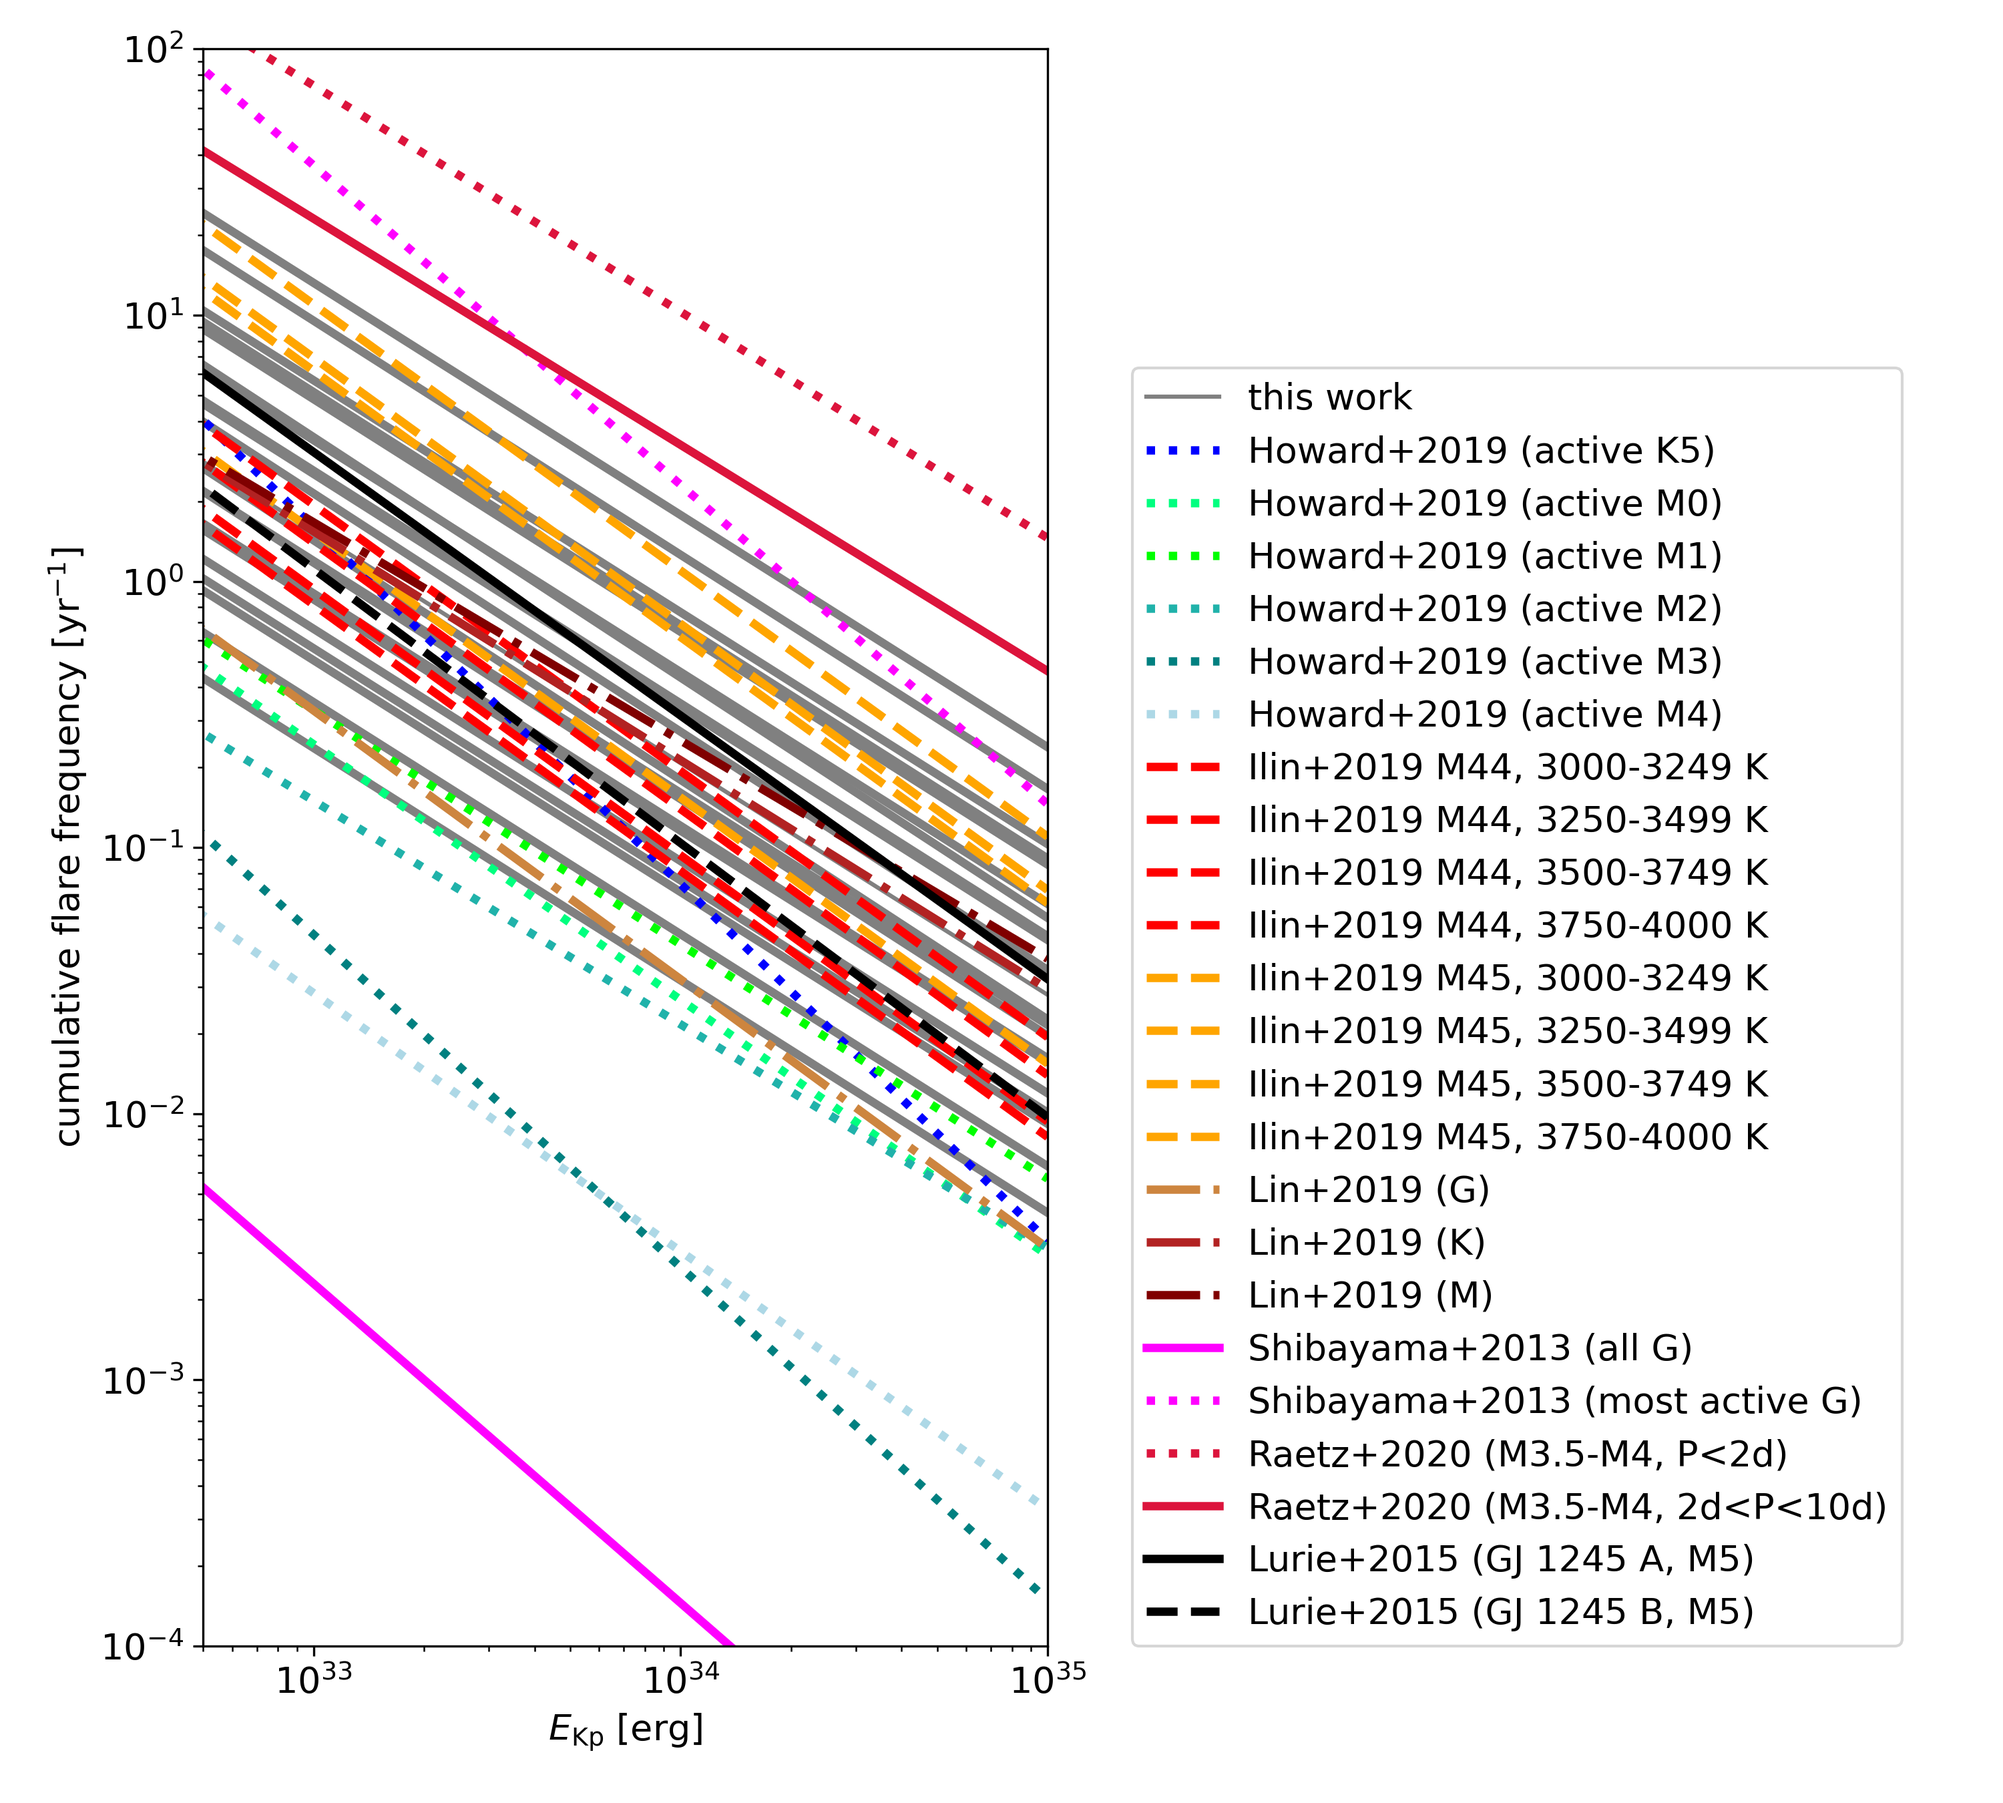
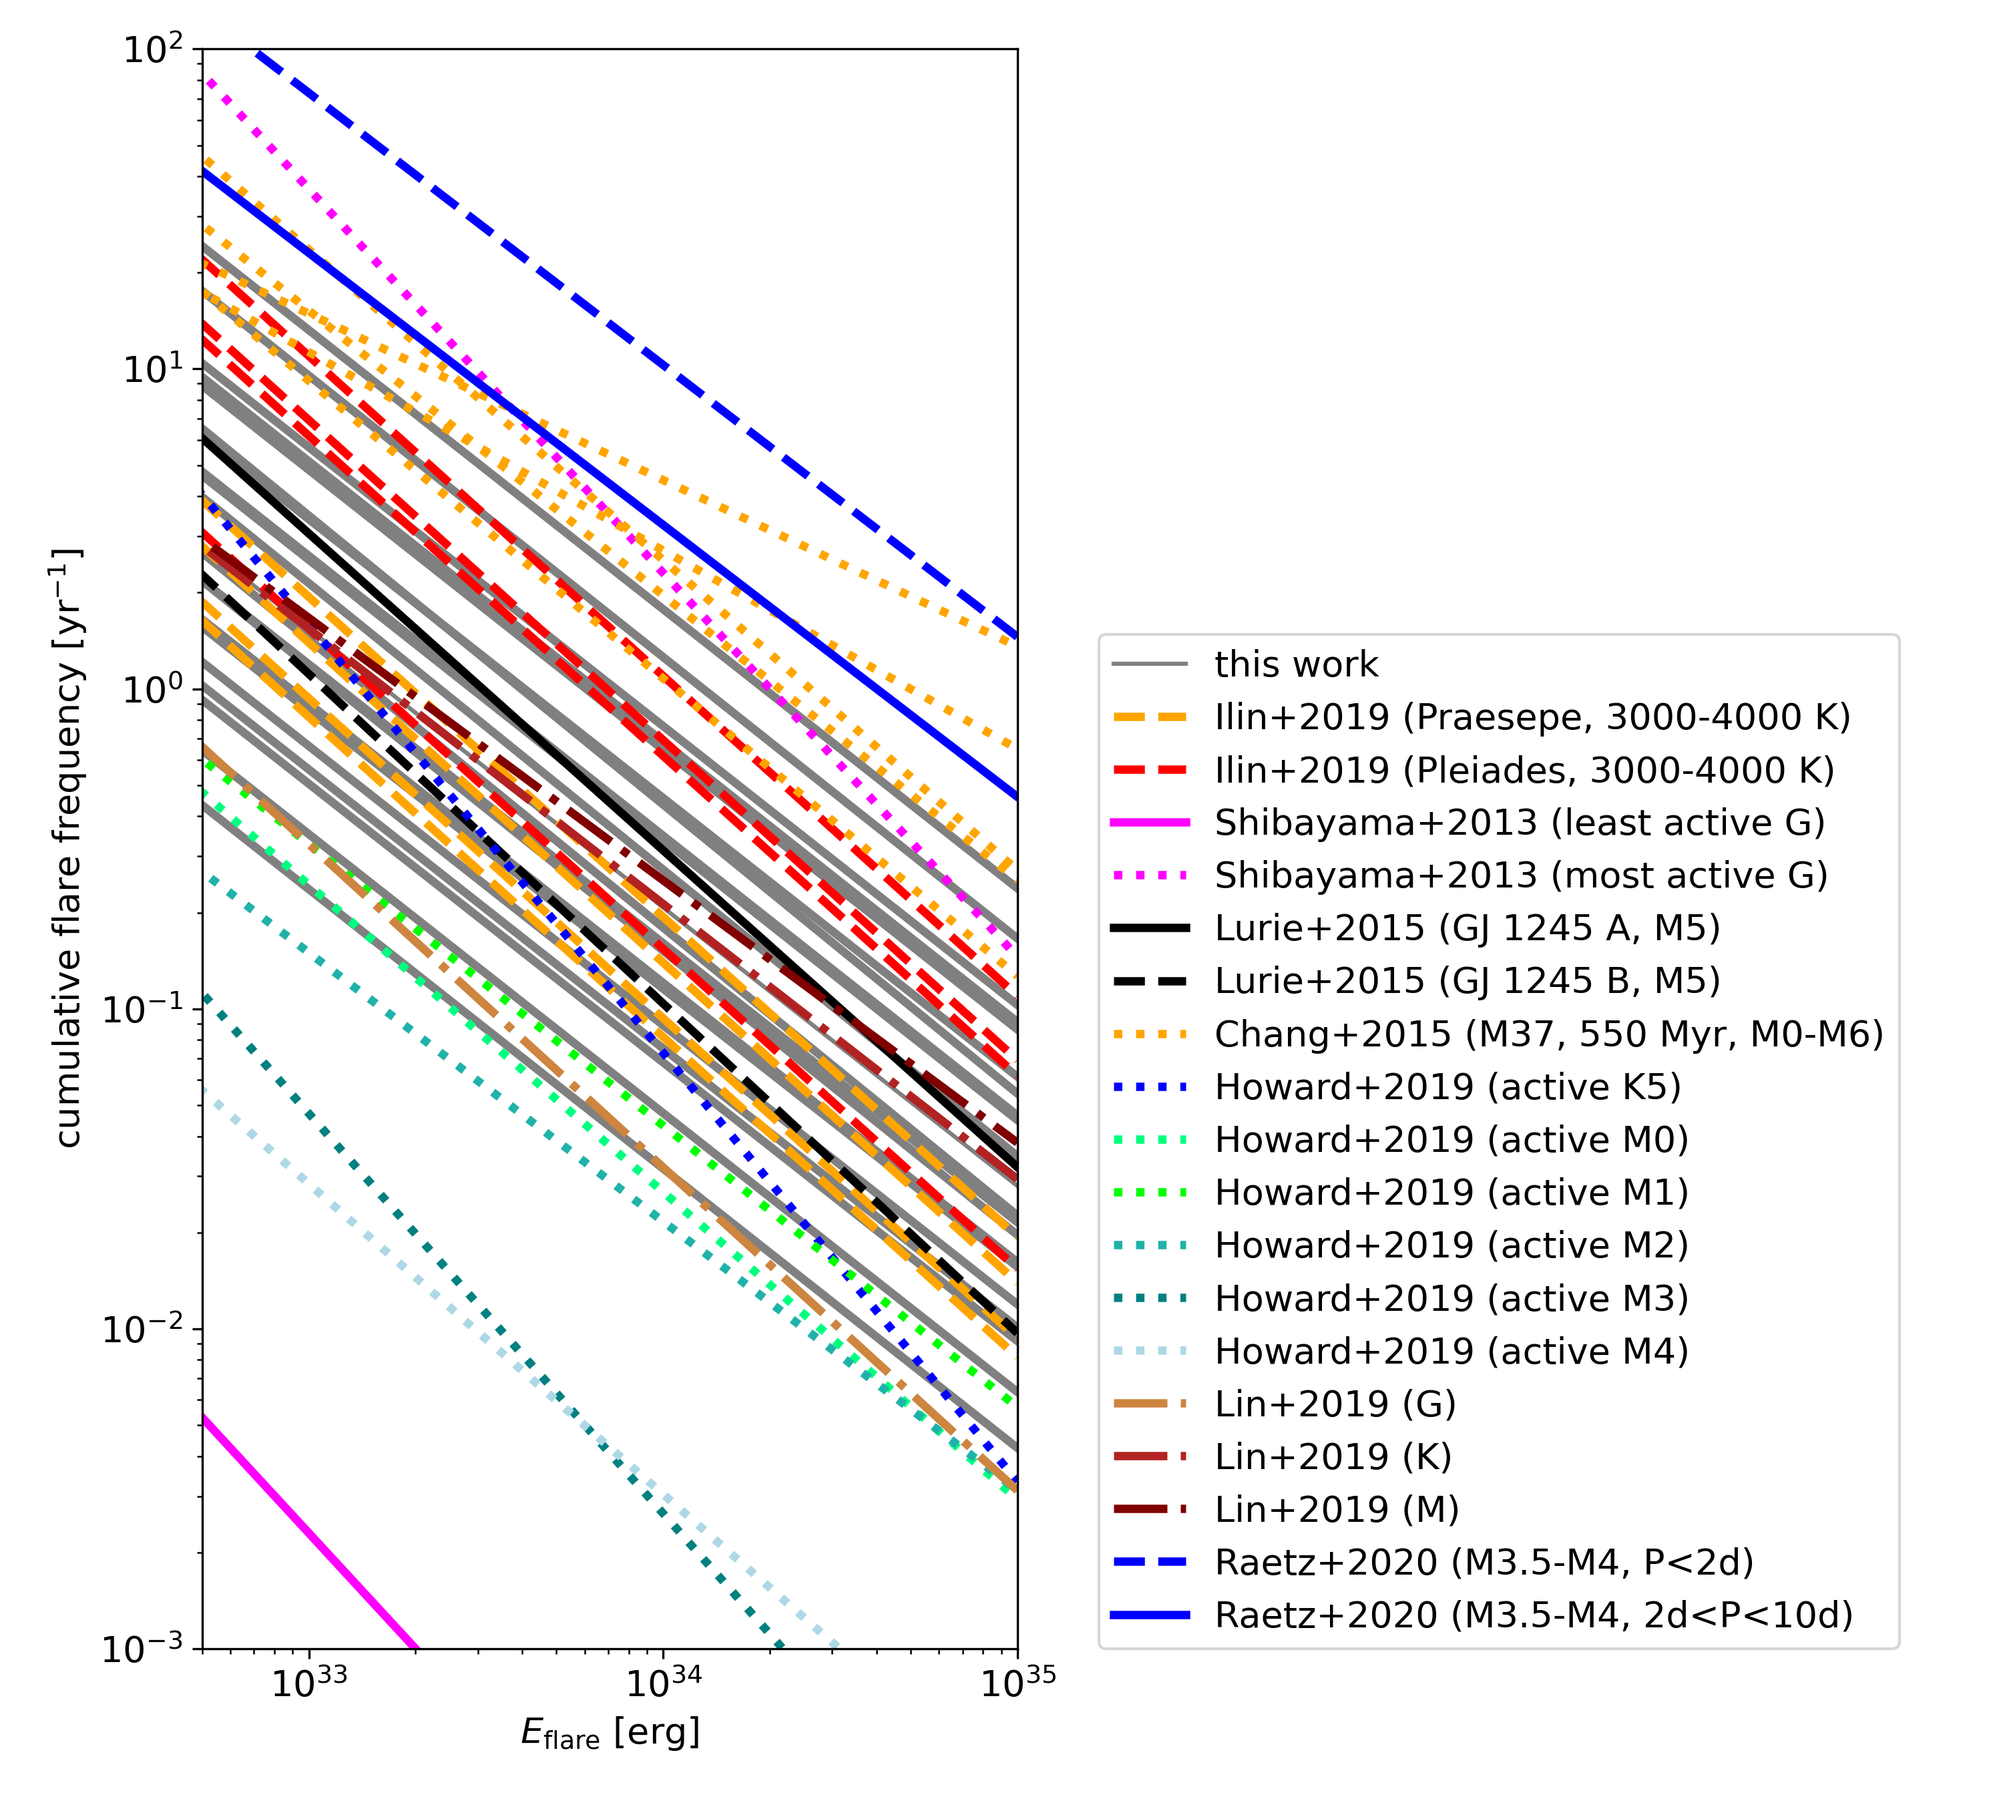
Added M37 to discussion.

diff --git a/Flares_in_Clusters_with_K2_2/aa.tex b/Flares_in_Clusters_with_K2_2/aa.tex
@@ -495,8 +495,6 @@ The frequency of superflares at $10^{34}$ erg in the most active G-dwarfs and Su
 \citet{2020arXiv200311937R} pointed out that their fast rotators appeared more active than the results for the Pleiades in \citet{ilin_flares_2019}. Our revised results in this work remain consistent with \citet{ilin_flares_2019}. We suggest that the discrepancy arises from the short cadence sample in \citet{2020arXiv200311937R}. Targets for short cadence observations in Kepler and K2 were not selected randomly from the underlying stellar population, but were filtered for their peculiarities, of which flaring activity was one.
 \subsubsection{Gyrochronological FFD parametrization}
 \citet{davenport_flaresevolve_2019} derived a parametrization of FFD parameters $alpha$ and $\beta$ as a function of mass and age using the Kepler flare catalog~\citep{davenport_kepler_2016}, rotation periods from~\citet{mcquillan2014}, and the \citet{mamajek2008} gyrochrone model. \textbf{We show the power law fits with given mass and age in Fig. XX alongside our results. It did not predict the observed activity.} The activity level in our sample appeared on average an order of magnitude lower than predicted. A deviation was expected as the model was not designed to predict absolute ages. The authors noted a sample bias in their study towards more active stars. Their model overpredicts the superflaring rate of the average Sun-like sample from~\citet{shibayama_2013} and more resembles the rate for their most active sub-sample. Yet the model also failed to predict the relative differences in flaring activity. The gyrochrone model may not map to the underlying rotation-age relation, or the flare sample on which the \citet{davenport_flaresevolve_2019} model was based was biased, or the OC sample of stars wase either biased or too small and therefore dominated by individual star that were not representative of the ensemble. 
-\subsection{M37}
-Comparing our results to a similar study of photometric flares in M37~\citep{chang_photometric_2015} we find the results somewhat discrepant. M37 is 300-600 Myr old and appears less active than Praesepe and Hyades in individual Teff bins, which are of coeval or older. We attribute the difference to the loose membership requirement of $pmem \geq 0.2$ in~\cite{chang_photometric_2015} as compared to our stricter cuts at 0.8. We expect the M37 to be contaminated with field stars that systematically reduce the flaring rates. Applying our own restriction the M37 sample~\citep{chang_photometric_2015_data} leaves very few flares that hamper a statistical description of their distributions.
 \subsection{Division at 3000 K}
 The lowest $T_\mathrm{eff}$ bin at Pleiades age in our sample reflects the division between fully convective stars and those with a radiative core~\citep{reid_new_2005}. At this age, the coolest dwarfs may still be accreting angular momentum on the PMS, instead of spinning down on the MS. We suggest that a regime change occurs around 120 Myr for stars with $T_\mathrm{eff}=2500-3250$ K.
 \\
@@ -685,7 +683,7 @@ We searched the literature for studies work where power laws were fitted to FFDs
    \begin{figure}
    \centering
             \includegraphics[width=\hsize]{pics/appendix/overview_alpha_literature.png}
-         \caption{Literature overview over power law fits to FFDs. Red triangle indicate the energy range in which flares were detected, and the range of values determined for the power law exponent including quoted uncertainties and combining multiple FFDs if any. \citet{lacy_uv_1976} pioneered in statistical flare studies using observations of eight UC Ceti stars. \citet{shakhovskaya_stellar_1989} analyzed monitoring data from several doyzen active early K to late M dwarfs. \citet{hawley_kepler_2014} used flares from M dwarfs in the original Kepler observations for their FFDs. A number of studies focused on solar-type and G dwarfs stars in Kepler~\citep{maehara_superflares_2012,wu2015,shibayama_2013}. \citet{hilton2011} derived $\alpha$ from ground-based observations of M dwarfs. \citet{lurie_kepler_2015} were based on Kepler short cadence light curves of two active M5 dwarfs in Kepler. \citet{davenport_kepler_2016} searched the entire Kepler catalog for flares on low\citet{gizis_k2_2017-1} constructed an FFD for 22 flares on an M7 dwarf. \citet{yang_flaring_2017} followed up on \citet{davenport_kepler_2016} in searching the entire Kepler catalog for flares. \citet{paudel2018} studied M6-L0 dwarfs in K2 short cadence data. \citet{howard2019} found over 500 superflares on 284 stars in the course of the Evryscope all-sky survey. \citet{lin2019} (M) and (K) were based on M and K dwarf flares in K2 long cadence light curves. }
+         \caption{Literature overview over power law fits to FFDs. Red triangle indicate the energy range in which flares were detected, and the range of values determined for the power law exponent including quoted uncertainties and combining multiple FFDs if any. \citet{lacy_uv_1976} pioneered in statistical flare studies using observations of eight UC Ceti stars. \citet{shakhovskaya_stellar_1989} analyzed monitoring data from several doyzen active early K to late M dwarfs. \citet{hawley_kepler_2014} used flares from M dwarfs in the original Kepler observations for their FFDs. A number of studies focused on solar-type and G dwarfs stars in Kepler~\citep{maehara_superflares_2012,wu2015,shibayama_2013}. \citet{hilton2011} derived $\alpha$ from ground-based observations of M dwarfs. \citet{lurie_kepler_2015} were based on Kepler short cadence light curves of two active M5 dwarfs in Kepler. \citet{davenport_kepler_2016} searched the entire Kepler catalog for flares on low\citet{gizis_k2_2017-1} constructed an FFD for 22 flares on an M7 dwarf. \citet{yang_flaring_2017} followed up on \citet{davenport_kepler_2016} in searching the entire Kepler catalog for flares. \citet{paudel2018} studied M6-L0 dwarfs in K2 short cadence data. \citet{howard2019} found over 500 superflares on 284 stars in the course of the Evryscope all-sky survey. \citet{lin2019} (M) and (K) were based on M and K dwarf flares in K2 long cadence light curves. Photometric flares observed by the MMT 6.5 telescope~\citep{hartman2008} in the 300-600 Myr old M37 open cluster~\citep{chang_photometric_2015} appear more active than the Pleiades in our study  }
           \label{fig:powerlaw_literature}
      
    \end{figure}
